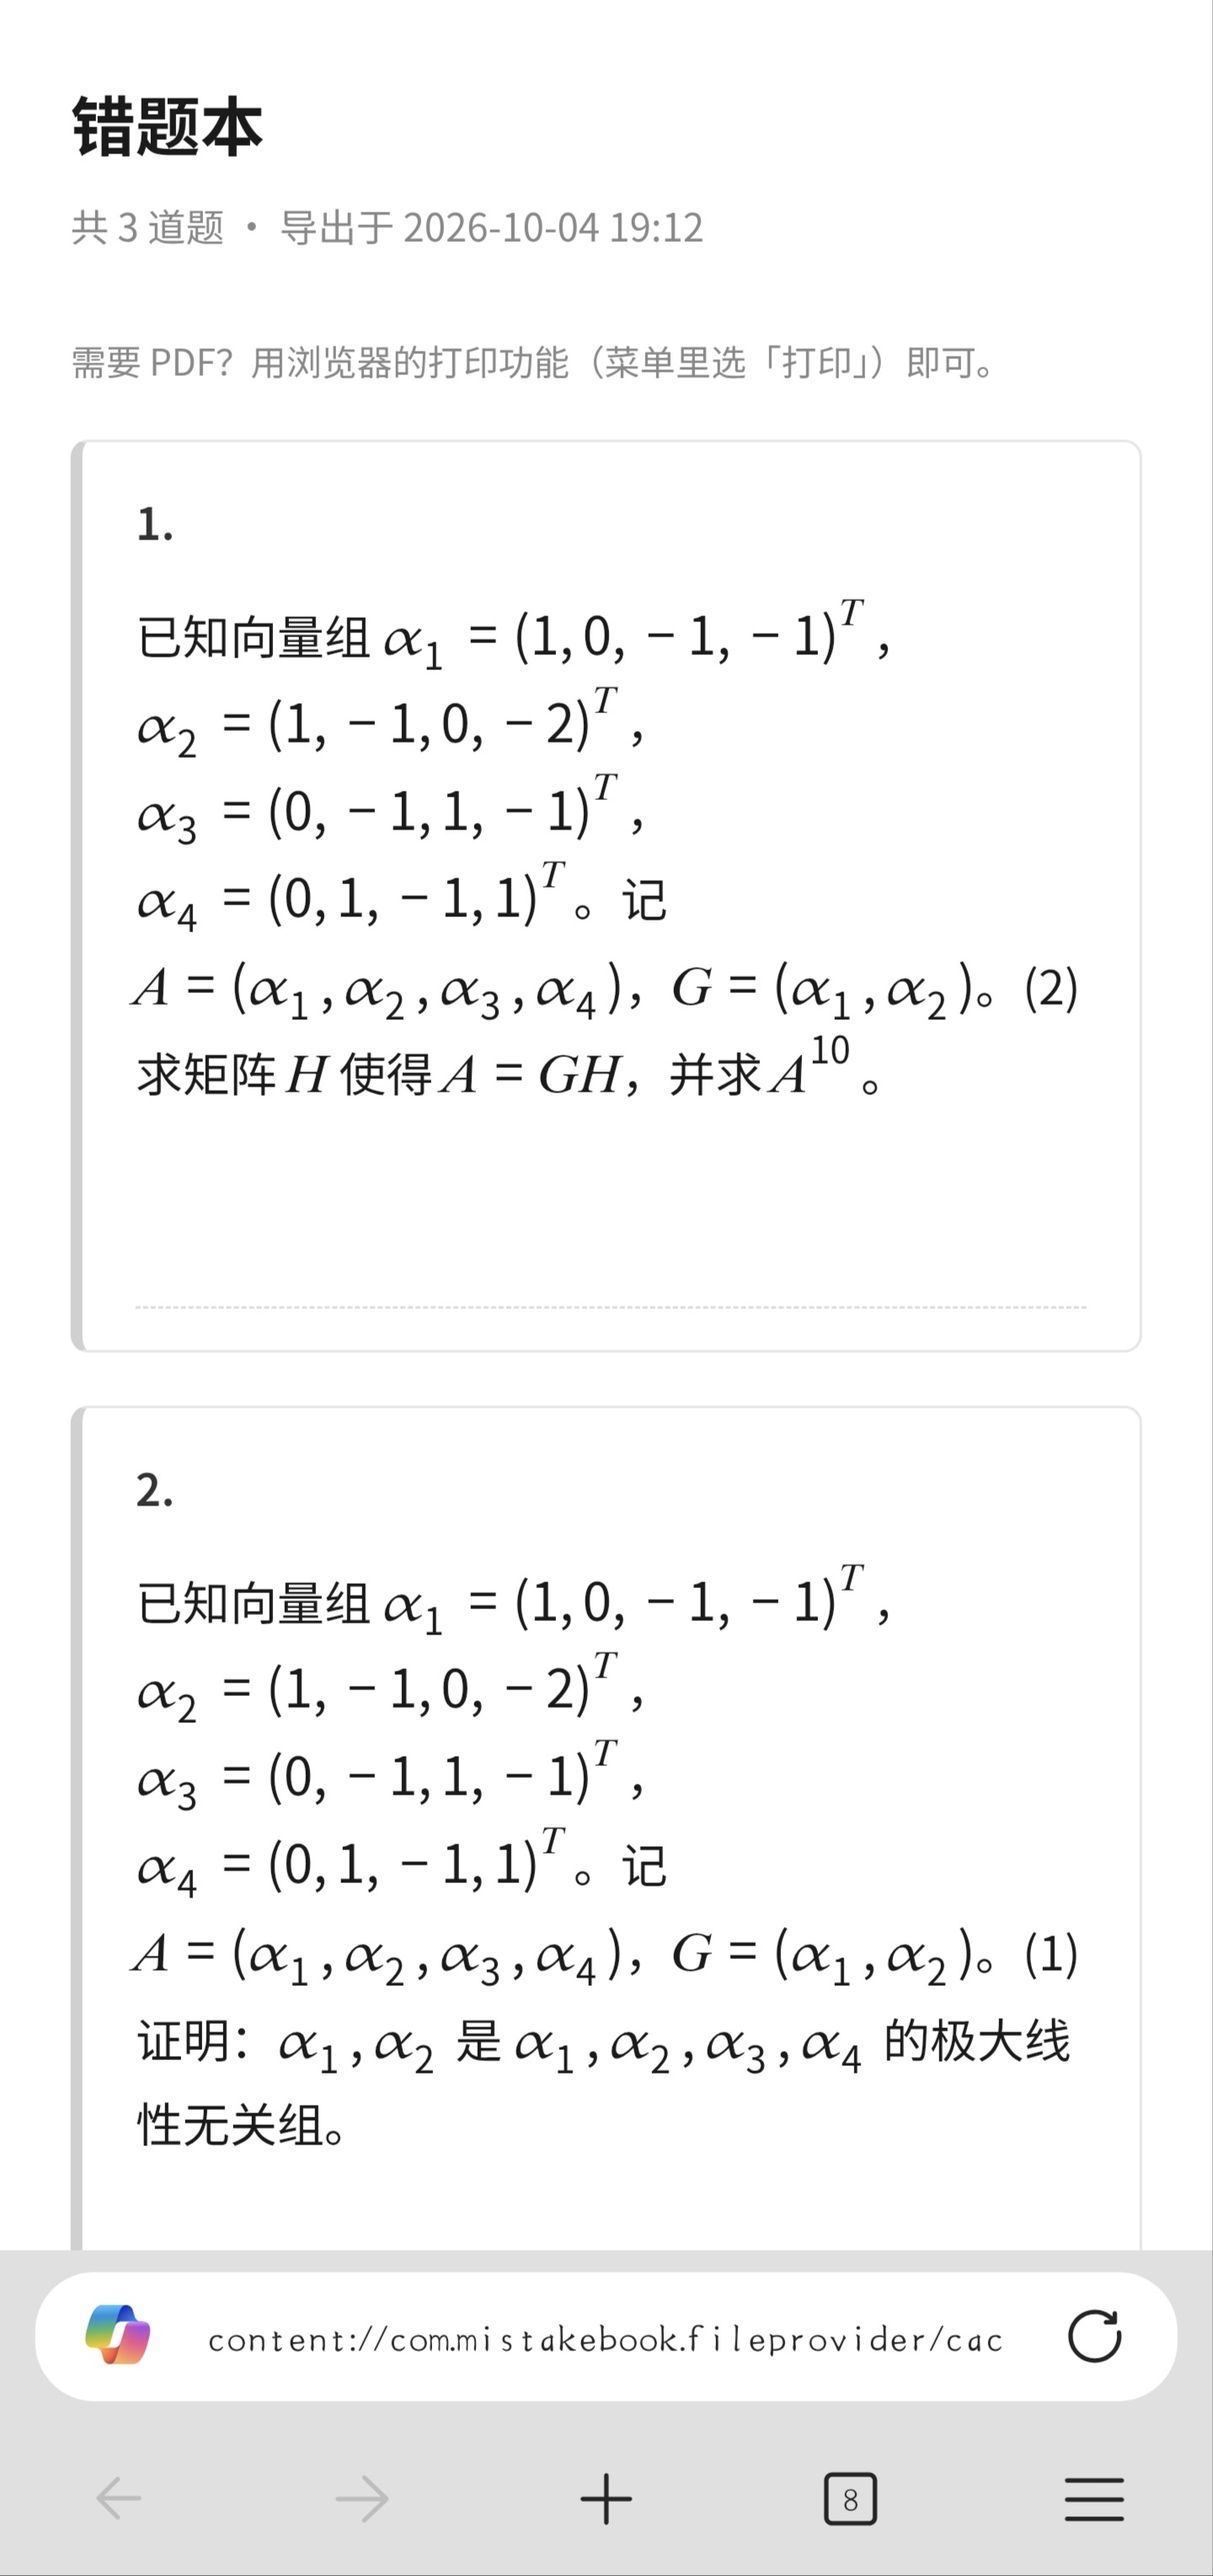
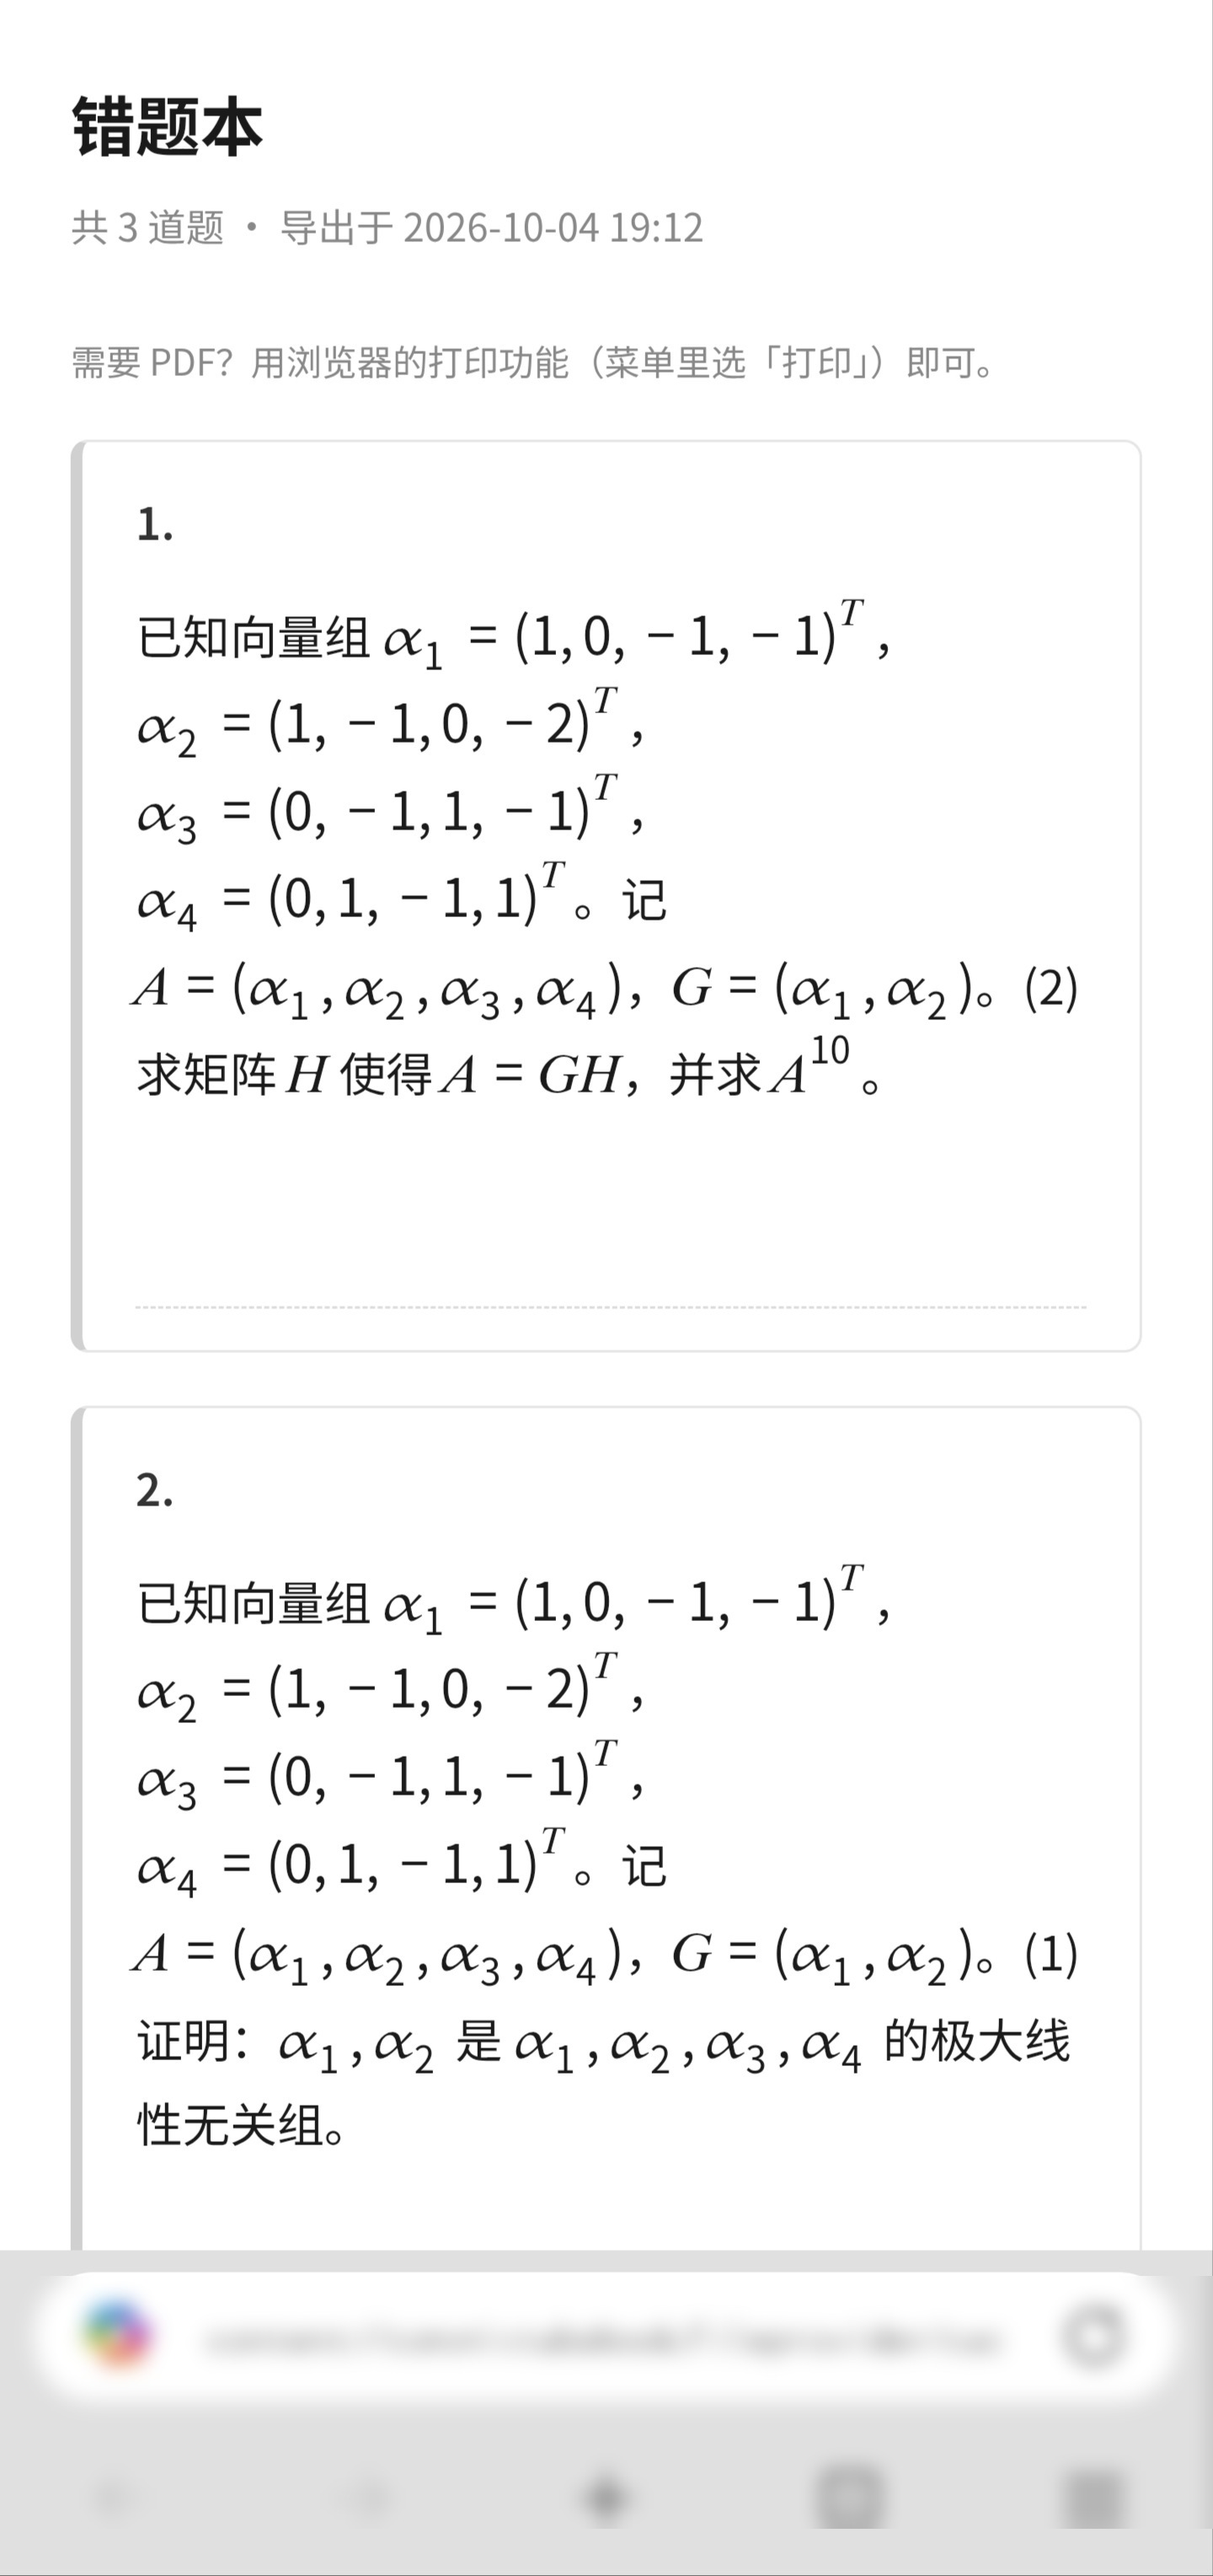
ci: 支持正式签名发布并遮蔽截图中 file:// 地址栏

diff --git a/README.md b/README.md
@@ -109,7 +109,11 @@
 2. 传输到手机（或用浏览器直接下载）后点击安装，需允许「安装未知来源应用」；
 3. 安装包**不预置任何 API Key**，首次启动后请按下方教程在设置页自行填写。
 
-> 当前 Release 为调试签名安装包，升级不同版本时如遇签名不一致需先卸载旧版。
+> 正式发布版本使用**固定发布签名**，升级时可覆盖安装、不会丢数据。
+> 若仓库未配置签名 Secrets，CI 产出的只是无签名 debug 包（仅能本机试用、升级需卸载）；
+> 配置方法见下文「维护者：正式签名发布」。
+>
+> 无论哪种包都**不预置任何 API Key**，首次启动后在设置页自行填写。
 
 ### 方式二：本地构建
 
@@ -255,6 +259,38 @@ app/src/main/java/com/mistakebook/
 - **不预置任何 API Key**：`buildConfigField` 注入的字符串会明文落在 DEX，所以公开安装包一律注入占位符，由使用者自行填写；
 - **Key 只存本机**：`EncryptedSharedPreferences`，不进日志、不随应用上传；
 - 本仓库无密钥文件：`local.properties` / `keystore.properties` 等已被 `.gitignore` 拦截，仓库内只有占位模板。
+
+## 维护者：正式签名发布
+
+正式签名让 Release 之间的升级可以**直接覆盖安装**（不用卸载、不丢数据）。
+签名密钥本体永不进仓库，只以 base64 存在仓库的 GitHub Secrets 里，CI 构建时还原。
+
+### 一次性配置（仓库 Settings → Secrets and variables → Actions）
+
+| Secret 名 | 内容 |
+|---|---|
+| `RELEASE_KEYSTORE_B64` | 发布 keystore 文件的 base64 |
+| `RELEASE_STORE_PASSWORD` | keystore 口令 |
+| `RELEASE_KEY_ALIAS` | 密钥别名 |
+| `RELEASE_KEY_PASSWORD` | 密钥口令 |
+
+生成 base64（Windows PowerShell）：
+
+```powershell
+[Convert]::ToBase64String([IO.File]::ReadAllBytes('C:\path\to\release.jks'))
+```
+
+### 发版（打 tag 即出签名包）
+
+```powershell
+powershell -ExecutionPolicy Bypass -File scripts\release.ps1 -Tag "v0.0.2"
+```
+
+无需任何本地构建——CI 会自动：还原密钥 → `assembleRelease` 签名 → 校验签名
+与 `signing/expected-cert-sha256.txt` 记录一致 → 扫描 APK 无 Key → 挂到 Release。
+
+> 没配 Secrets 也不会让 CI 变红：此时降级为无签名 debug 包（仅试用、升级需卸载）。
+> fork 与 PR 走同样降级路径，任何贡献者都能本地构建。
 
 ## 本地编译与测试
 
